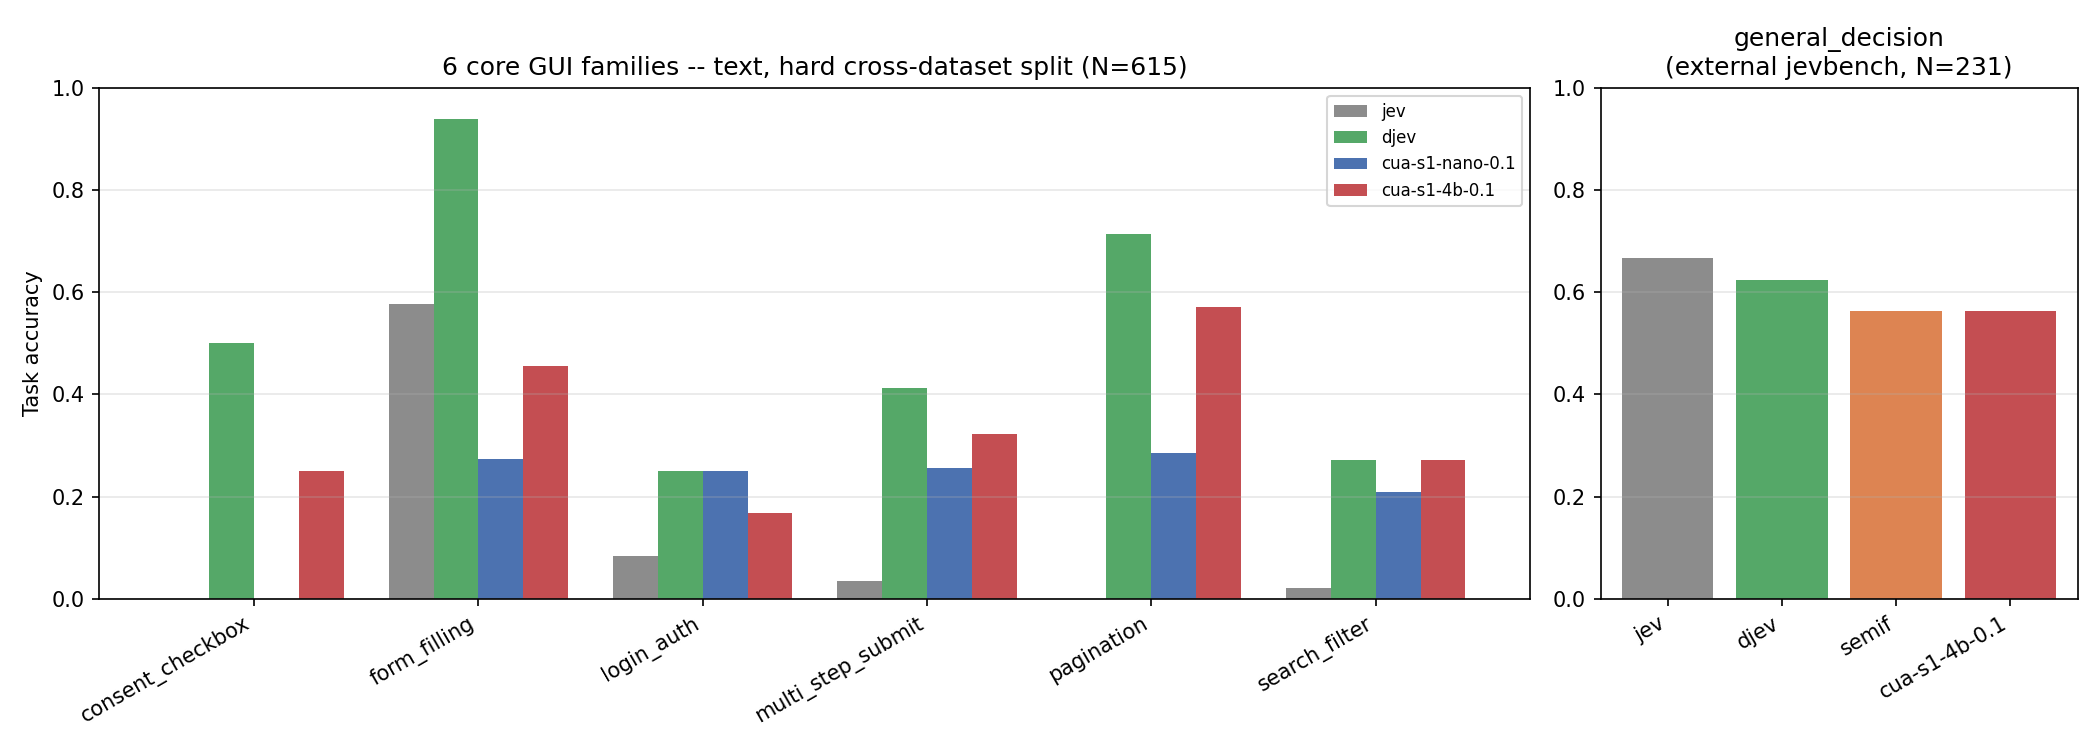
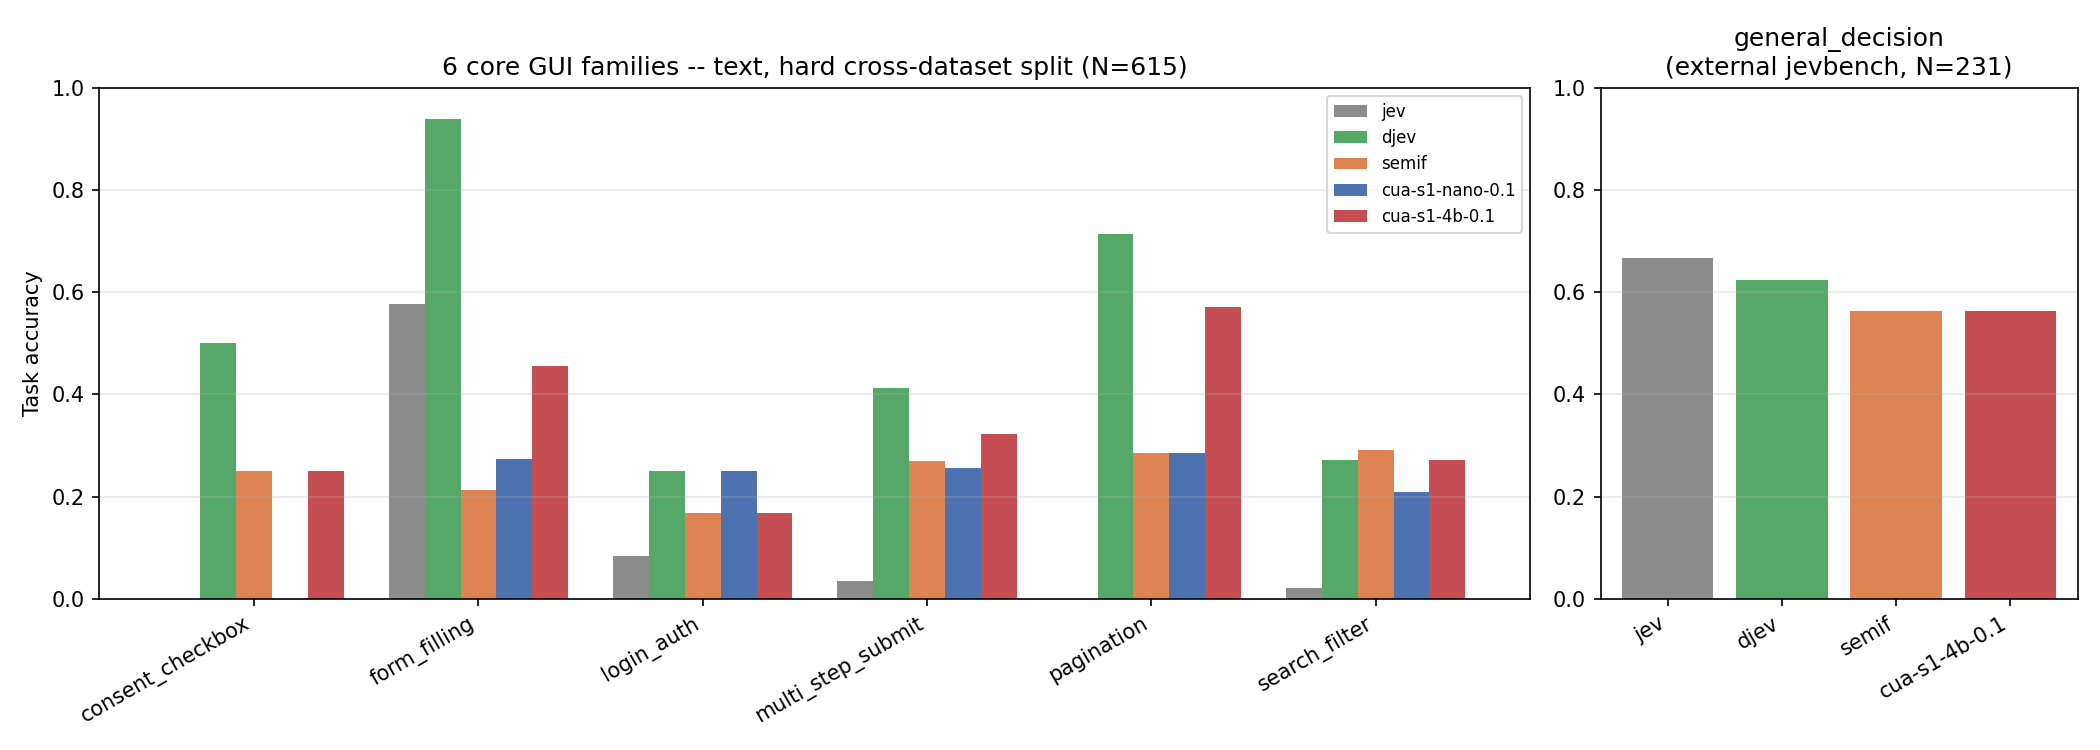
docs(cua-bench-s1): close results gaps and add fair capped chess comparison

diff --git a/libs/cua-bench-s1/scripts/render_results_chart.py b/libs/cua-bench-s1/scripts/render_results_chart.py
@@ -30,6 +30,7 @@ CORE_FAMILIES = [
 CORE_TEXT_HARD = {
     "jev": [0.000, 0.576, 0.083, 0.034, 0.000, 0.021],
     "djev": [0.500, 0.939, 0.250, 0.412, 0.714, 0.271],
+    "semif": [0.250, 0.212, 0.167, 0.270, 0.286, 0.292],
     "cua-s1-nano-0.1": [0.000, 0.273, 0.250, 0.256, 0.286, 0.208],
     "cua-s1-4b-0.1": [0.250, 0.455, 0.167, 0.322, 0.571, 0.271],
 }

diff --git a/libs/cua-bench-s1/README.md b/libs/cua-bench-s1/README.md
@@ -44,40 +44,45 @@ instead marks the next-best score.
 
 | Family | Split / modality | N | `jev` | `djev` | `semif` (0-shot) | `cua-s1-nano-0.1` | `cua-s1-4b-0.1` |
 | --- | --- | --- | --- | --- | --- | --- | --- |
-| `consent_checkbox` | text, hard cross-dataset (GUI-360) | 615 total | 0.000 | **0.500** | — | 0.000 | 0.250 |
-| `form_filling` | text, hard cross-dataset (GUI-360) | 615 total | 0.576 | **0.939** | — | 0.273 | 0.455 |
-| `login_auth` | text, hard cross-dataset (GUI-360) | 615 total | 0.083 | **0.250** | — | 0.250 | 0.167 |
-| `multi_step_submit` | text, hard cross-dataset (GUI-360) | 615 total | 0.034 | **0.412** | — | 0.256 | 0.322 |
-| `pagination` | text, hard cross-dataset (GUI-360) | 615 total | 0.000 | **0.714** | — | 0.286 | 0.571 |
-| `search_filter` | text, hard cross-dataset (GUI-360) | 615 total | 0.021 | **0.271** | — | 0.208 | **0.271** |
+| `consent_checkbox` | text, hard cross-dataset (GUI-360) | 615 total | 0.000 | **0.500** | 0.250 | 0.000 | 0.250 |
+| `form_filling` | text, hard cross-dataset (GUI-360) | 615 total | 0.576 | **0.939** | 0.212 | 0.273 | 0.455 |
+| `login_auth` | text, hard cross-dataset (GUI-360) | 615 total | 0.083 | **0.250** | 0.167 | 0.250 | 0.167 |
+| `multi_step_submit` | text, hard cross-dataset (GUI-360) | 615 total | 0.034 | **0.412** | 0.270 | 0.256 | 0.322 |
+| `pagination` | text, hard cross-dataset (GUI-360) | 615 total | 0.000 | **0.714** | 0.286 | 0.286 | 0.571 |
+| `search_filter` | text, hard cross-dataset (GUI-360) | 615 total | 0.021 | 0.271 | **0.292** | 0.208 | 0.271 |
 | `consent_checkbox` | multimodal, same-distribution | 14-86 | n/a | 0.071 | 0.357 | 1.000 | **1.000** |
 | `form_filling` | multimodal, same-distribution | 14-86 | n/a | 0.000 | 0.100 | 1.000 | **1.000** |
 | `login_auth` | multimodal, same-distribution | 14-86 | n/a | 0.000 | 0.235 | 1.000 | **1.000** |
 | `multi_step_submit` | multimodal, same-distribution | 14-86 | n/a | 0.750 | 0.167 | 1.000 | **1.000** |
 | `pagination` | multimodal, same-distribution | 14-86 | n/a | 0.444 | 0.000 | 1.000 | **1.000** |
 | `search_filter` | multimodal, same-distribution | 14-86 | n/a | 0.429 | 0.214 | 1.000 | **1.000** |
-| `safety_gate` | text, zero-shot | 14 | **0.286** | — | 0.000 | 0.000 | 0.071 |
+| `safety_gate` | text, zero-shot | 14 | 0.286 | **0.500** | 0.000 | 0.000 | 0.071 |
+| `safety_gate` | multimodal, zero-shot | 14 | n/a | **0.286** | 0.000 | — | — |
 | `safety_gate` | text, finetuned on own train split | 14 | — | — | — | 1.000 | **1.000** |
-| `chess` | text, task accuracy | 800 | — | — | — | 0.000 | **0.000** (N=15, <=26-option subset) |
-| `chess` | text, element accuracy | 800 | — | — | — | 0.035 | **0.515** (N=15, <=26-option subset) |
-| `chess` | multimodal, task accuracy | 800 | — | — | — | 0.000 | **0.000** (N=15, <=26-option subset) |
-| `chess` | multimodal, element accuracy | 800 | — | — | — | 0.035 | **0.409** (N=15, <=26-option subset) |
+| `chess` | text, task accuracy (fair N=15, all models capped equally) | 15 | **0.133** | 0.000 | 0.000 | 0.000 | 0.000 |
+| `chess` | text, element accuracy (fair N=15) | 15 | **0.682** | 0.227 | 0.424 | 0.227 | 0.515 |
+| `chess` | multimodal, task accuracy (fair N=15) | 15 | n/a | 0.000 | 0.000 | 0.000 | blocked |
+| `chess` | multimodal, element accuracy (fair N=15) | 15 | n/a | 0.227 | **0.409** | 0.227 | blocked |
 | `general_decision` (external `jevbench`) | text, zero-shot, out-of-domain | 231 | **0.667** | 0.623 | 0.563 | n/a | 0.563 |
 
 `chess` uses a real Stockfish-backed, freshly generated 800-position dataset
 where every legal move is scored as its own real click-vs-skip decision (a
 prior version of this table reported a since-withdrawn 1.000 on a task
-construction that let every non-gold move auto-score as correct). Task
-accuracy requires the model to be right about every legal move in a
-position, so 0.000 is the expected floor once move selection is genuinely
-tested; element accuracy (per move) is the more informative number at this
-model scale. `game_control` is temporarily withdrawn while its dataset is
+construction that let every non-gold move auto-score as correct). Since
+`cua-s1-4b-0.1`'s letter-based decoding contract caps it at 26 options per
+task, and most of the 800 positions exceed that, **every model in the chess
+rows above is scored on the same identical 15-position subset** (options
+<=26) rather than comparing mismatched sample sizes -- the nerf that one
+model needed is applied equally to all five. `cua-s1-4b-0.1` multimodal is
+marked `blocked`, not `0`: its published LoRA adapter was exported for the
+flat causal-LM layer layout and fails to load onto the multimodal model
+class's nested layer paths, a real limitation of the published artifact, not
+a measured zero score. Task accuracy requires every legal move in a position
+to be scored correctly, so 0.000 is the expected floor once move selection
+is genuinely tested; element accuracy (per move) is the more informative
+number at this model scale, and only `jev` clearly discriminates real moves
+here. `game_control` is temporarily withdrawn while its dataset is
 regenerated under the same fix.
-
-`cua-s1-4b-0.1`'s decoding contract assigns each candidate option a unique
-single-token letter, capping it at 26 options per task -- most real chess
-positions exceed that, so its chess numbers cover the 15 positions (of 800)
-that fit.
 
 ### Latency
 
@@ -90,18 +95,20 @@ controlled benchmark. `—` = not measured.
 
 | Split / modality | `jev` | `djev` | `semif` (0-shot) | `cua-s1-nano-0.1` | `cua-s1-4b-0.1` |
 | --- | --- | --- | --- | --- | --- |
-| 6 core families, text, hard cross-dataset | 0.556 | 0.770 | — | 0.003 | 0.121-0.128 |
+| 6 core families, text, hard cross-dataset | 0.556 | 0.770 | 0.120 | 0.003 | 0.121-0.128 |
 | 6 core families, multimodal, same-distribution | n/a | 1.195 | 0.293 | 0.222 | 0.353 |
-| `safety_gate`, text | 0.553 | — | 1.078 | — | — |
-| `safety_gate`, multimodal | n/a | — | 1.557 | — | — |
-| `chess`, text (N=15, <=26-option subset) | — | — | — | 0.003 | 1.174 |
-| `chess`, multimodal (N=15, <=26-option subset) | n/a | — | — | 0.030 | 0.729 |
+| `safety_gate`, text | 0.553 | 3.061 | 1.078 | — | — |
+| `safety_gate`, multimodal | n/a | 3.389 | 1.557 | — | — |
+| `chess`, text (fair N=15, all models capped equally) | 0.534 | 3.168 | 1.117 | 0.015 | 1.274 |
+| `chess`, multimodal (fair N=15) | n/a | 3.450 | 1.151 | 0.739 | blocked |
 | `general_decision` (external `jevbench`) | 0.597 | 0.858 | 0.157 | n/a | — |
 
 `cua-s1-4b-0.1`'s core-families text latency spans two nearly-identical reruns
 of the same eval (0.121s and 0.128s); both are reported since neither is
 clearly the canonical one. `cua-s1-nano-0.1`'s sub-10ms text latency reflects
 its much smaller, from-scratch architecture rather than a hardware advantage.
+`djev` (a 26B model) is consistently the slowest entry per task across every
+row it appears in.
 
 ## Task families
 
